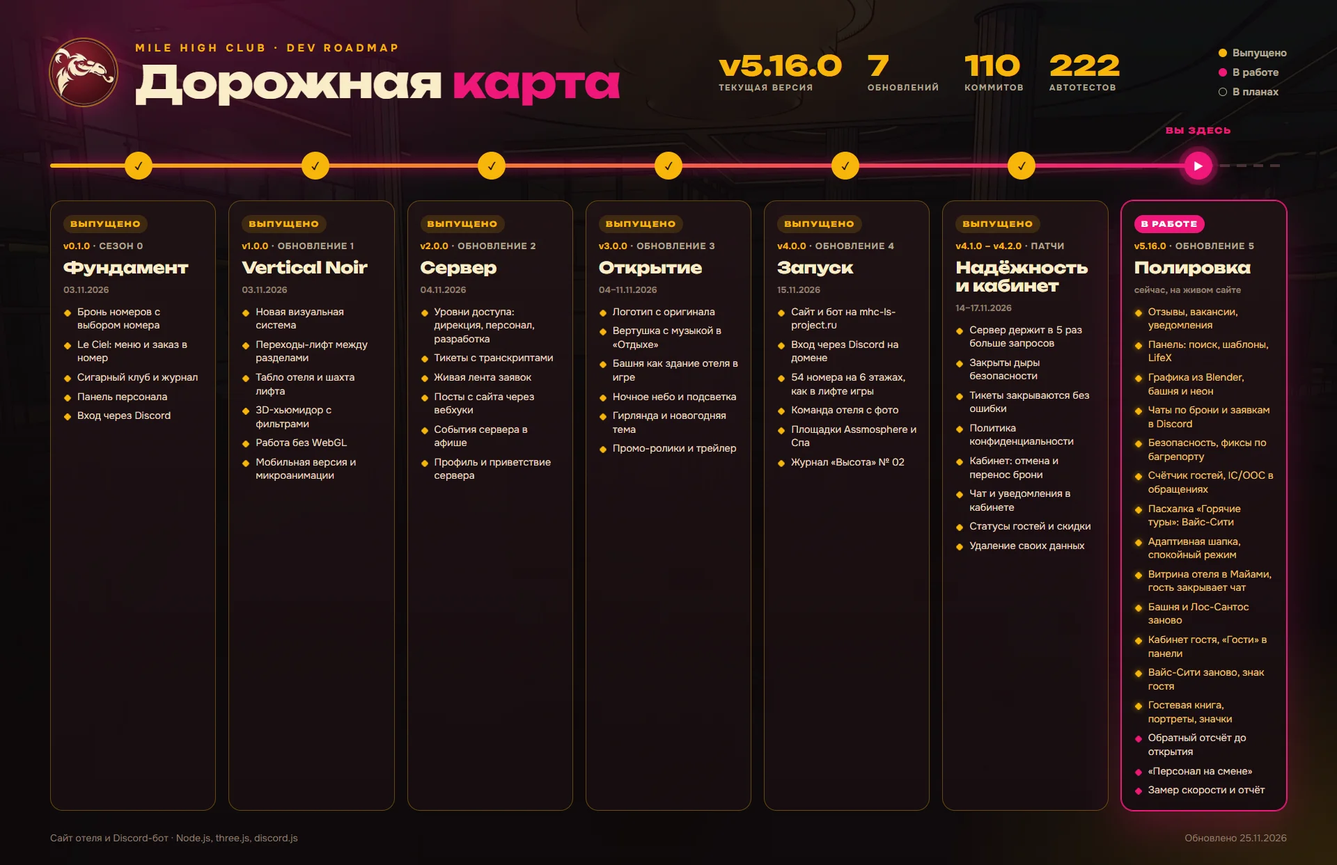
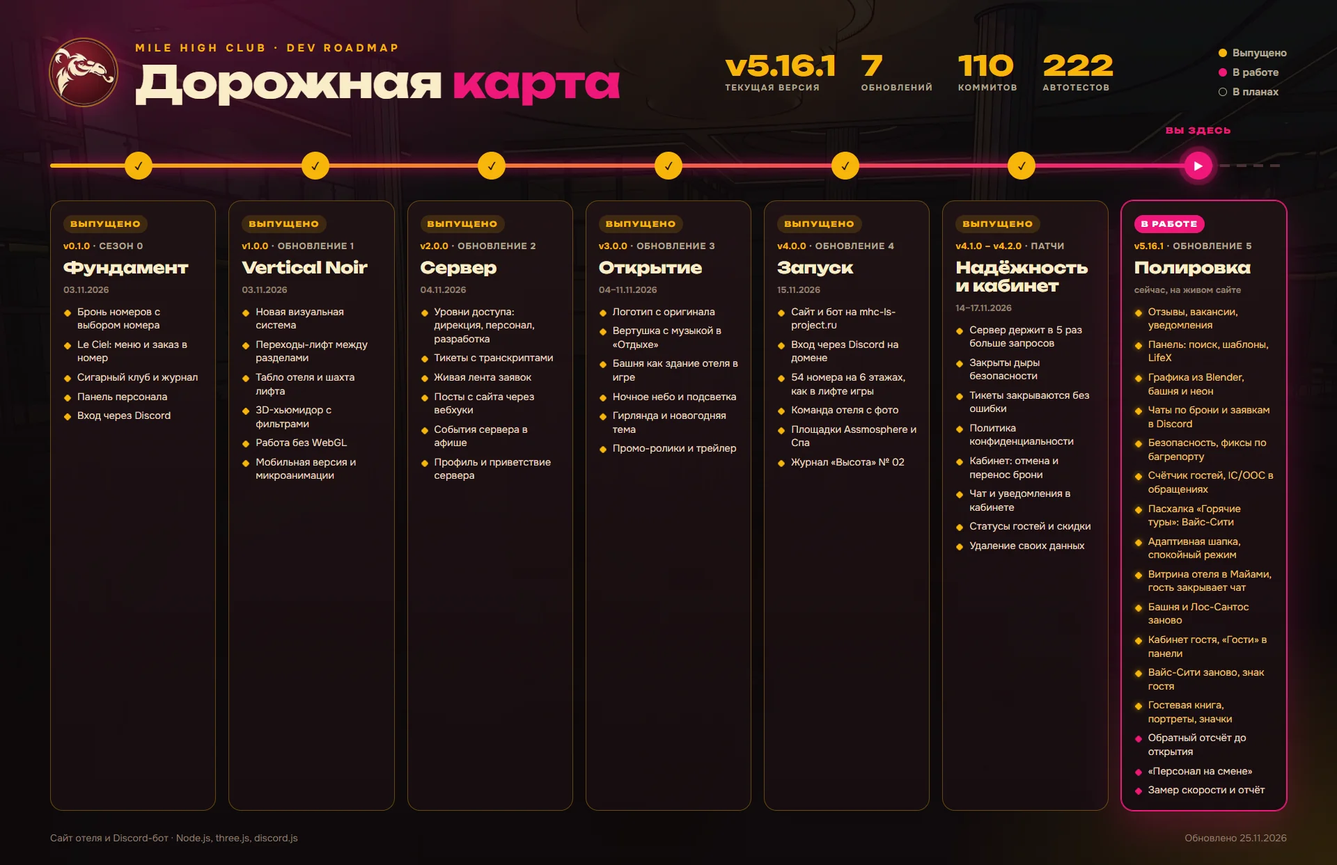
v5.16.1: кнопки обращений переживают смену бота

Changed region(s): [[0.5312, 0.0611, 0.8438, 0.1223], [0.875, 0.2751, 0.9375, 0.3057]]

diff --git a/server/bot.js b/server/bot.js
@@ -1,10 +1,10 @@
 import { Client, GatewayIntentBits, Events, Options, ChannelType, PermissionFlagsBits, EmbedBuilder, ActionRowBuilder, ButtonBuilder, ButtonStyle, ActivityType } from 'discord.js';
-import crypto from 'node:crypto';
 import path from 'node:path';
 import { fileURLToPath } from 'node:url';
 import { buildBlueprint, allTiers, DIRECTOR_ROLE } from './discord/layout.js';
 import { planSetup, snapshotGuild, snapshotRoles, applyPlan, planCleanup } from './discord/plan.js';
-import { helpdeskBoard, postPayload, eventAnnouncement, ticketOpened, archiveCard, transcriptHtml, feedCard } from './discord/embeds.js';
+import { helpdeskBoard, postPayload, eventAnnouncement, ticketOpened, closeRow, archiveCard, transcriptHtml, feedCard } from './discord/embeds.js';
+import { syncBoard } from './discord/board.js';
 import { applyProfile } from './discord/profile.js';
 import { buildCommands, createInteractions } from './discord/commands.js';
 
@@ -43,6 +43,7 @@ export async function startBot({ core, store, env, hooks }) {
   const tiers = () => ({ admin: known(listIds(S().adminRoles, env.ADMIN_ROLE_IDS)), director: known(listIds(S().directorRoles)), staff: known(listIds(S().modRoles, env.MOD_ROLE_IDS)), dev: known(S().devRoles?.length ? S().devRoles : guild.roles.cache.filter(r => r.name === 'Dev').map(r => r.id)) });
   const staffIds = () => allTiers(tiers());
   const staffOverwrites = () => [{ id: guild.roles.everyone.id, deny: [PermissionFlagsBits.ViewChannel] }, ...staffIds().map(id => ({ id, allow: [PermissionFlagsBits.ViewChannel, PermissionFlagsBits.SendMessages, PermissionFlagsBits.ReadMessageHistory] }))];
+  const botOverwrite = () => ({ id: client.user.id, allow: [PermissionFlagsBits.ViewChannel, PermissionFlagsBits.SendMessages, PermissionFlagsBits.ManageChannels] });
   const links = list => { const b = list.filter(([, url]) => url).map(([label, url]) => new ButtonBuilder().setStyle(ButtonStyle.Link).setLabel(label).setURL(url)); return b.length ? [new ActionRowBuilder().addComponents(b)] : []; };
   const send = async (key, payload) => { const c = await channel(key); return c ? c.send(payload).catch(e => { console.error('Discord send:', e.message); return null; }) : null; };
 
@@ -76,11 +77,13 @@ export async function startBot({ core, store, env, hooks }) {
     const m = await findMember(t.discord, t.discordId); if (!m) return null;
     const cat = await channel('catDesk');
     t.discordId = m.id; // сообщения из канала разделяются на гостя и персонал по этому id
-    const ch = await guild.channels.create({ name: `🎫・${(m.user.username || 'гость').slice(0, 20)}-${t.id.slice(-4)}`, type: ChannelType.GuildText, parent: cat?.id, permissionOverwrites: [...staffOverwrites(), { id: client.user.id, allow: [PermissionFlagsBits.ViewChannel, PermissionFlagsBits.SendMessages, PermissionFlagsBits.ManageChannels] }, { id: m.id, allow: [PermissionFlagsBits.ViewChannel, PermissionFlagsBits.SendMessages, PermissionFlagsBits.ReadMessageHistory, PermissionFlagsBits.AttachFiles] }] });
+    const ch = await guild.channels.create({ name: `🎫・${(m.user.username || 'гость').slice(0, 20)}-${t.id.slice(-4)}`, type: ChannelType.GuildText, parent: cat?.id, permissionOverwrites: [...staffOverwrites(), botOverwrite(), { id: m.id, allow: [PermissionFlagsBits.ViewChannel, PermissionFlagsBits.SendMessages, PermissionFlagsBits.ReadMessageHistory, PermissionFlagsBits.AttachFiles] }] });
     await ch.send(ticketOpened(t, m.id));
     return ch.id;
   };
 
+  // канал мог быть удалён вручную; сбой сети или прав за удаление не считаем
+  const ticketChannel = id => guild.channels.fetch(id).catch(e => { if (e.code === 10003) return null; throw e; });
   async function allMessages(c) {
     const out = []; let before;
     for (let n = 0; n < 20; n++) { const page = await c.messages.fetch({ limit: 100, before }); if (!page.size) break; out.push(...page.values()); before = page.last().id; if (page.size < 100) break; }
@@ -97,7 +100,7 @@ export async function startBot({ core, store, env, hooks }) {
   const authorKind = (t, m) => (relayGuest(m) ? 'guest' : relayStaff(m) ? 'staff' : m.author.bot ? 'bot' : m.author.id === t.discordId ? 'guest' : 'staff');
   // Закрытие: сначала архив, потом удаление канала. Не сохранился транскрипт — канал остаётся.
   hooks.closeTicketChannel = async (t, by, byGuest) => {
-    const c = await guild.channels.fetch(t.channel).catch(() => null); if (!c) return [];
+    const c = await ticketChannel(t.channel); if (!c) return [];
     const log = (await allMessages(c)).filter(m => !m.system).map(m => ({ from: authorKind(t, m), by: fromSite(m)?.[1] || m.member?.displayName || m.author.username, text: fromSite(m)?.[2] || textOf(m), files: [...m.attachments.values()].map(a => a.url), at: m.createdTimestamp }));
     const sent = await send('ticketArchive', { ...archiveCard(t, log, by, t.discordId), files: [{ attachment: Buffer.from(transcriptHtml(t, log, by), 'utf8'), name: `ticket-${t.id}.html` }] });
     if (!sent) throw new Error('не удалось сохранить транскрипт');
@@ -121,9 +124,9 @@ export async function startBot({ core, store, env, hooks }) {
   async function ensureBridge(kind, d) {
     if (d.channel) { const c = await guild.channels.fetch(d.channel).catch(() => null); if (c) return c; }
     const cat = await channel('catDesk'), m = await findMember(d.discord, d.discordId);
-    const ch = await guild.channels.create({ name: bridgeName(kind, d, m), type: ChannelType.GuildText, parent: cat?.id, permissionOverwrites: staffOverwrites() });
+    const ch = await guild.channels.create({ name: bridgeName(kind, d, m), type: ChannelType.GuildText, parent: cat?.id, permissionOverwrites: [...staffOverwrites(), botOverwrite()] });
     const role = /^\d+$/.test(S().bookingRole || '') ? S().bookingRole : null;
-    await ch.send({ content: (role ? `<@&${role}>\n` : '') + bridgeHead(kind, d), components: links([['Открыть в панели', panel]]), allowedMentions: { parse: [], roles: role ? [role] : [] } });
+    await ch.send({ content: (role ? `<@&${role}>\n` : '') + bridgeHead(kind, d), components: [...links([['Открыть в панели', panel]]), ...(kind === 'ticket' ? [closeRow()] : [])], allowedMentions: { parse: [], roles: role ? [role] : [] } });
     const fresh = store.get(BR[kind].col, d.id); if (fresh) store.put(BR[kind].col, d.id, { ...fresh, channel: ch.id, discordId: m?.id || fresh.discordId });
     convIdx = null; return ch;
   }
@@ -152,6 +155,19 @@ export async function startBot({ core, store, env, hooks }) {
     const text = textOf(m) || 'вложение', by = core.icOf?.(m.author.id) || m.member?.displayName || m.author.username, ooc = OOC_RE.test(text);
     if (c.kind === 'ticket') core.ticketMessage(c.doc.id, { from: authorKind(c.doc, m), by, text, ooc, at: m.createdTimestamp });
     else core.bookingMessage(c.doc.id, { by, text, ooc, at: m.createdTimestamp }); // в канале брони пишут только сотрудники
+  });
+
+  // канал тикета удалили вручную: обращение закрывается и на сайте, иначе гость упрётся в лимит открытых заявок
+  const closeOrphan = async t => {
+    const now = store.get('tickets', t.id); if (!now || now.status === 'closed' || now.channel !== t.channel || now.mode !== 'discord') return;
+    if (await ticketChannel(t.channel)) return;
+    await core.handle('POST', `/admin/tickets/${t.id}/close`, { user: { id: client.user.id, username: 'Discord', role: 'admin' } });
+  };
+  const orphanCheck = t => closeOrphan(t).catch(e => console.error('Discord ticket:', e.message));
+  client.on(Events.ChannelDelete, ch => {
+    if (ch.guildId !== env.GUILD_ID) return;
+    const t = store.all('tickets').find(x => x.channel === ch.id && x.status !== 'closed');
+    if (t) setTimeout(() => orphanCheck(t), 5000).unref(); // при закрытии кнопкой обращение к этому времени уже отмечено
   });
 
   // уведомления персоналу: одна лента. Гость на сервере — кликабельный профиль, иначе только имя
@@ -247,16 +263,20 @@ export async function startBot({ core, store, env, hooks }) {
     };
   };
 
-  // панель обращений: одно сообщение, правится только при изменении
+  // панель обращений: одно сообщение от текущего бота
   async function publishHelpdesk() {
-    const payload = helpdeskBoard(), hash = crypto.createHash('sha1').update(JSON.stringify(payload)).digest('hex'), rec = S().helpdeskBoard;
-    const c = await channel('helpdesk'); if (!c) return;
-    // сообщение с кнопками могли удалить (чистка канала): раньше при том же тексте бот его не восстанавливал — «бот умер в ветке»
-    if (rec?.id) { const m = await c.messages.fetch(rec.id).catch(() => null); if (m) { if (rec.hash !== hash) await m.edit(payload); save({ helpdeskBoard: { id: m.id, hash } }); return; } }
-    const old = S().boards?.helpdesk; // карточка прошлой версии: её отправлял вебхук, им и удаляем
-    if (old?.id) { const h = (await c.fetchWebhooks().catch(() => null))?.find(w => w.owner?.id === client.user.id); await h?.deleteMessage(old.id).catch(() => {}); }
-    const m = await c.send(payload);
-    save({ helpdeskBoard: { id: m.id, hash } });
+    const c = await channel('helpdesk'); if (!c) return null;
+    const run = () => syncBoard(c, client.user.id, helpdeskBoard(), S().helpdeskBoard);
+    const r = await run().catch(async e => {
+      if (![50001, 50013].includes(e.code)) throw e;
+      // канал создал прежний бот: у нового нет в нём прав, выдаём себе
+      await c.permissionOverwrites.edit(client.user.id, { ViewChannel: true, SendMessages: true, EmbedLinks: true, ReadMessageHistory: true });
+      return run();
+    });
+    if (S().helpdeskBoard?.id !== r.id || S().helpdeskBoard?.hash !== r.hash) save({ helpdeskBoard: { id: r.id, hash: r.hash } });
+    if (r.action === 'sent') core.log('Discord: кнопки обращений выложены заново', 'ticket');
+    if (r.stale) console.error('Discord: старое сообщение с кнопками не удалилось, у бота нет права «Управлять сообщениями»');
+    return r;
   }
 
   // события сервера → сайт и анонс в канал
@@ -375,6 +395,10 @@ export async function startBot({ core, store, env, hooks }) {
     const channelId = await hooks.createTicketChannel(t).catch(e => { console.error('Discord ticket:', e.message); return null; });
     if (channelId) { const doc = { ...t, channel: channelId }; store.put('tickets', t.id, doc); hooks.notify('ticket_update', doc).catch(() => {}); }
   }
+  for (const t of store.all('tickets').filter(x => x.status !== 'closed' && x.mode === 'discord' && x.channel)) await orphanCheck(t);
+  // кнопки обращений проверяются при каждом запуске и дальше раз в 15 минут
+  const board = () => publishHelpdesk().catch(e => { console.error('Discord board:', e.message); core.log(`Discord: кнопки обращений не выложены — ${e.message}`, 'error'); });
+  await board(); setInterval(board, 15 * 60e3).unref();
   await guild.commands.set(buildCommands()).catch(e => console.error('Discord commands:', e.message));
   try { client.user.setActivity(site && /^https:/.test(site) ? site.replace(/^https:\/\//, '') : 'Отель над Лос-Сантосом', { type: ActivityType.Watching }); } catch (e) { console.error('Discord activity:', e.message); }
   return client;

diff --git a/docs/roadmap/roadmap.html b/docs/roadmap/roadmap.html
@@ -58,7 +58,7 @@ li.ok::before{background:var(--gold)}
 <div class="bgimg"></div><div class="glow"></div>
 <div class="wrap">
 <header><img src="../../public/img/emblem.webp" alt=""><div><div class="eb">Mile High Club · dev roadmap</div><h1>Дорожная <span>карта</span></h1></div>
-<div class="stats"><div><span class="big" data-current>v5.16.0</span><small>текущая версия</small></div><div><span class="big">7</span><small>обновлений</small></div><div><span class="big">110</span><small>коммитов</small></div><div><span class="big">222</span><small>автотестов</small></div></div>
+<div class="stats"><div><span class="big" data-current>v5.16.1</span><small>текущая версия</small></div><div><span class="big">7</span><small>обновлений</small></div><div><span class="big">110</span><small>коммитов</small></div><div><span class="big">222</span><small>автотестов</small></div></div>
 <div class="legend"><span><i style="background:var(--gold)"></i>Выпущено</span><span><i style="background:var(--pink)"></i>В работе</span><span><i style="border:1.5px solid var(--mut)"></i>В планах</span></div></header>
 
 <div class="track"><div class="rail"></div><div class="prog" style="--p:92.86"></div>
@@ -83,7 +83,7 @@ li.ok::before{background:var(--gold)}
 <div class="c done"><span class="tag">ВЫПУЩЕНО</span><div class="ver"><b>v4.1.0 – v4.2.0</b> · ПАТЧИ</div><h2>Надёжность и кабинет</h2><div class="date">14–17.11.2026</div><ul>
 <li>Сервер держит в 5 раз больше запросов</li><li>Закрыты дыры безопасности</li><li>Тикеты закрываются без ошибки</li><li>Политика конфиденциальности</li><li>Кабинет: отмена и перенос брони</li><li>Чат и уведомления в кабинете</li><li>Статусы гостей и скидки</li><li>Удаление своих данных</li></ul></div>
 
-<div class="c now"><span class="tag">В РАБОТЕ</span><div class="ver"><b data-current>v5.16.0</b> · ОБНОВЛЕНИЕ 5</div><h2>Полировка</h2><div class="date">сейчас, на живом сайте</div><ul>
+<div class="c now"><span class="tag">В РАБОТЕ</span><div class="ver"><b data-current>v5.16.1</b> · ОБНОВЛЕНИЕ 5</div><h2>Полировка</h2><div class="date">сейчас, на живом сайте</div><ul>
 <li class="ok">Отзывы, вакансии, уведомления</li><li class="ok">Панель: поиск, шаблоны, LifeX</li><li class="ok">Графика из Blender, башня и неон</li><li class="ok">Чаты по брони и заявкам в Discord</li><li class="ok">Безопасность, фиксы по багрепорту</li><li class="ok">Счётчик гостей, IC/OOC в обращениях</li><li class="ok">Пасхалка «Горячие туры»: Вайс-Сити</li><li class="ok">Адаптивная шапка, спокойный режим</li><li class="ok">Витрина отеля в Майами, гость закрывает чат</li><li class="ok">Башня и Лос-Сантос заново</li><li class="ok">Кабинет гостя, «Гости» в панели</li><li class="ok">Вайс-Сити заново, знак гостя</li><li class="ok">Гостевая книга, портреты, значки</li><li>Обратный отсчёт до открытия</li><li>«Персонал на смене»</li><li>Замер скорости и отчёт</li></ul></div>
 </div></div>
 <div class="foot"><span>Сайт отеля и Discord-бот · Node.js, three.js, discord.js</span><span>Обновлено 25.11.2026</span></div>

diff --git a/server/discord/commands.js b/server/discord/commands.js
@@ -15,22 +15,25 @@ export function createInteractions({ core, resolveRole }) {
     const now = Date.now(), open = core.store.all('tickets').filter(t => t.discordId === i.user.id && t.status !== 'closed').length;
     if (open >= 3) return i.reply({ content: 'У вас уже три открытых обращения — дождитесь ответа по ним.', flags: EPH });
     if (now - (lastAt.get(i.user.id) || 0) < 120e3) return i.reply({ content: 'Новое обращение можно открыть через пару минут.', flags: EPH });
-    lastAt.set(i.user.id, now);
     await i.deferReply({ flags: EPH });
+    lastAt.set(i.user.id, now);
+    try {
     const user = { id: i.user.id, username: i.user.username, role: await resolveRole(i.user.id) };
     const { ticket } = await core.handle('POST', '/tickets', { user, body: { name: i.fields.getTextInputValue('name'), topic, text: i.fields.getTextInputValue('text') } });
     const r = await core.handle('POST', `/tickets/${ticket.id}/mode`, { user, body: { mode: 'discord' } });
-    return say(i, r.ticket.channel ? `Обращение открыто: <#${r.ticket.channel}>` : 'Обращение принято, управляющие ответят.');
+    return await say(i, r.ticket.channel ? `Обращение открыто: <#${r.ticket.channel}>` : 'Обращение принято, управляющие ответят.');
+    } catch (e) { lastAt.delete(i.user.id); throw e; } // не открылось — ждать две минуты не нужно
   };
 
   // закрыть может персонал или сам автор обращения: транскрипт и удаление канала делает core через бота
   const closeTicket = async i => {
+    // Discord ждёт ответ 3 секунды: сначала подтверждаем нажатие, потом проверяем права
+    await i.deferReply({ flags: EPH });
     const role = await resolveRole(i.user.id);
     const t = core.store.all('tickets').find(x => x.channel === i.channelId && x.status !== 'closed');
-    if (!t) return i.reply({ content: 'Это обращение уже закрыто.', flags: EPH });
+    if (!t) return say(i, 'Это обращение уже закрыто.');
     const own = t.discordId === i.user.id;
-    if (role === 'guest' && !own) return i.reply({ content: 'Закрыть обращение может его автор или администрация.', flags: EPH });
-    await i.deferReply({ flags: EPH });
+    if (role === 'guest' && !own) return say(i, 'Закрыть обращение может его автор или администрация.');
     const user = { id: i.user.id, username: i.member?.displayName || i.user.username, role };
     await core.handle('POST', role === 'guest' ? `/tickets/${t.id}/close` : `/admin/tickets/${t.id}/close`, { user });
   };

diff --git a/server/discord/board.js b/server/discord/board.js
@@ -1,0 +1,19 @@
+// Сообщение с кнопками обращений. Кнопки работают только у бота, который их отправил: после смены приложения старые нажатия уходят в никуда.
+import crypto from 'node:crypto';
+
+const hasTicketButtons = m => (m.components || []).some(r => (r.components || []).some(c => /^mhc:(ticket|job)$/.test(c.customId || '')));
+
+/** В канале остаётся одно сообщение, и оно от текущего бота. Возвращает { id, hash } и что сделано. */
+export async function syncBoard(channel, botId, payload, rec) {
+  const hash = crypto.createHash('sha1').update(JSON.stringify(payload)).digest('hex');
+  const found = new Map([...(await channel.messages.fetch({ limit: 50 })).values()].filter(m => m.author.bot && hasTicketButtons(m)).map(m => [m.id, m]));
+  if (rec?.id && !found.has(rec.id)) { const m = await channel.messages.fetch(rec.id).catch(() => null); if (m) found.set(m.id, m); }
+  const mine = [...found.values()].filter(m => m.author.id === botId), keep = mine.find(m => m.id === rec?.id) || mine[0];
+  let id = keep?.id, action = 'ok';
+  if (!keep) { id = (await channel.send(payload)).id; action = 'sent'; }
+  else if (rec?.id !== keep.id || rec.hash !== hash) { await keep.edit(payload); action = 'edited'; }
+  // чужие и лишние убираем, только когда рабочее сообщение уже на месте
+  let stale = 0;
+  for (const m of found.values()) if (m.id !== id) await m.delete().catch(() => { stale++; });
+  return { id, hash, action, stale };
+}

diff --git a/server/discord/embeds.js b/server/discord/embeds.js
@@ -17,12 +17,14 @@ export function helpdeskBoard() {
   };
 }
 
-// Первое сообщение тикета: кнопка закрытия работает только у администрации
+export const closeRow = () => ({ type: 1, components: [btn('mhc:close', 'Закрыть обращение', 4, '🔒')] });
+
+// Первое сообщение тикета: закрыть может автор или администрация
 export function ticketOpened(t, memberId) {
   return {
     content: `<@${memberId}>, управляющие скоро ответят.`,
-    embeds: [{ title: `🎫 ${cut(t.topic, 240)}`, color: PALETTE.gold, description: cut(t.text, 3900), fields: [{ name: 'Имя', value: t.name || '—', inline: true }, { name: 'Discord', value: t.discord, inline: true }], footer: { text: 'Закрыть обращение может только администрация. История сохранится.' } }],
-    components: [{ type: 1, components: [btn('mhc:close', 'Закрыть обращение', 4, '🔒')] }]
+    embeds: [{ title: `🎫 ${cut(t.topic, 240)}`, color: PALETTE.gold, description: cut(t.text, 3900), fields: [{ name: 'Имя', value: t.name || '—', inline: true }, { name: 'Discord', value: t.discord, inline: true }], footer: { text: 'Закрыть может автор или администрация. История сохранится.' } }],
+    components: [closeRow()]
   };
 }
 

diff --git a/CHANGELOG.md b/CHANGELOG.md
@@ -7,6 +7,7 @@
 Номер версии хранится в `package.json` и виден на сайте (подвал) и в панели персонала. Новая версия — `npm run release -- patch|minor|major "Название"`.
 
 <!--versions-->
+- **v5.16.1** · 25.11.2026 · Тикеты: кнопки обращений работают после смены бота, закрытие надёжнее
 - **v5.16.0** · 25.11.2026 · Номера и этажи: лимиты модели в панели и на сервере, башня обновляется без пересборки, цвета уборки и ремонта
 - **v5.15.7** · 25.11.2026 · Башня: холмы с особняками, дорогами и обсерваторией
 - **v5.15.6** · 25.11.2026 · Башня: убраны висящие огни над океаном и холмами, у судов есть корпус

diff --git a/README.md b/README.md
@@ -6,7 +6,7 @@
 
 **Сайт отеля над Лос-Сантосом и Discord-бот для GTA RP**
 
-Текущая версия: **<!--ver-->v5.16.0<!--/ver-->**
+Текущая версия: **<!--ver-->v5.16.1<!--/ver-->**
 
 Бронь номеров на 3D-башне · Le Ciel и заказ в номер · сигарный клуб · журнал · обращения с тикетами в Discord · панель персонала
 
